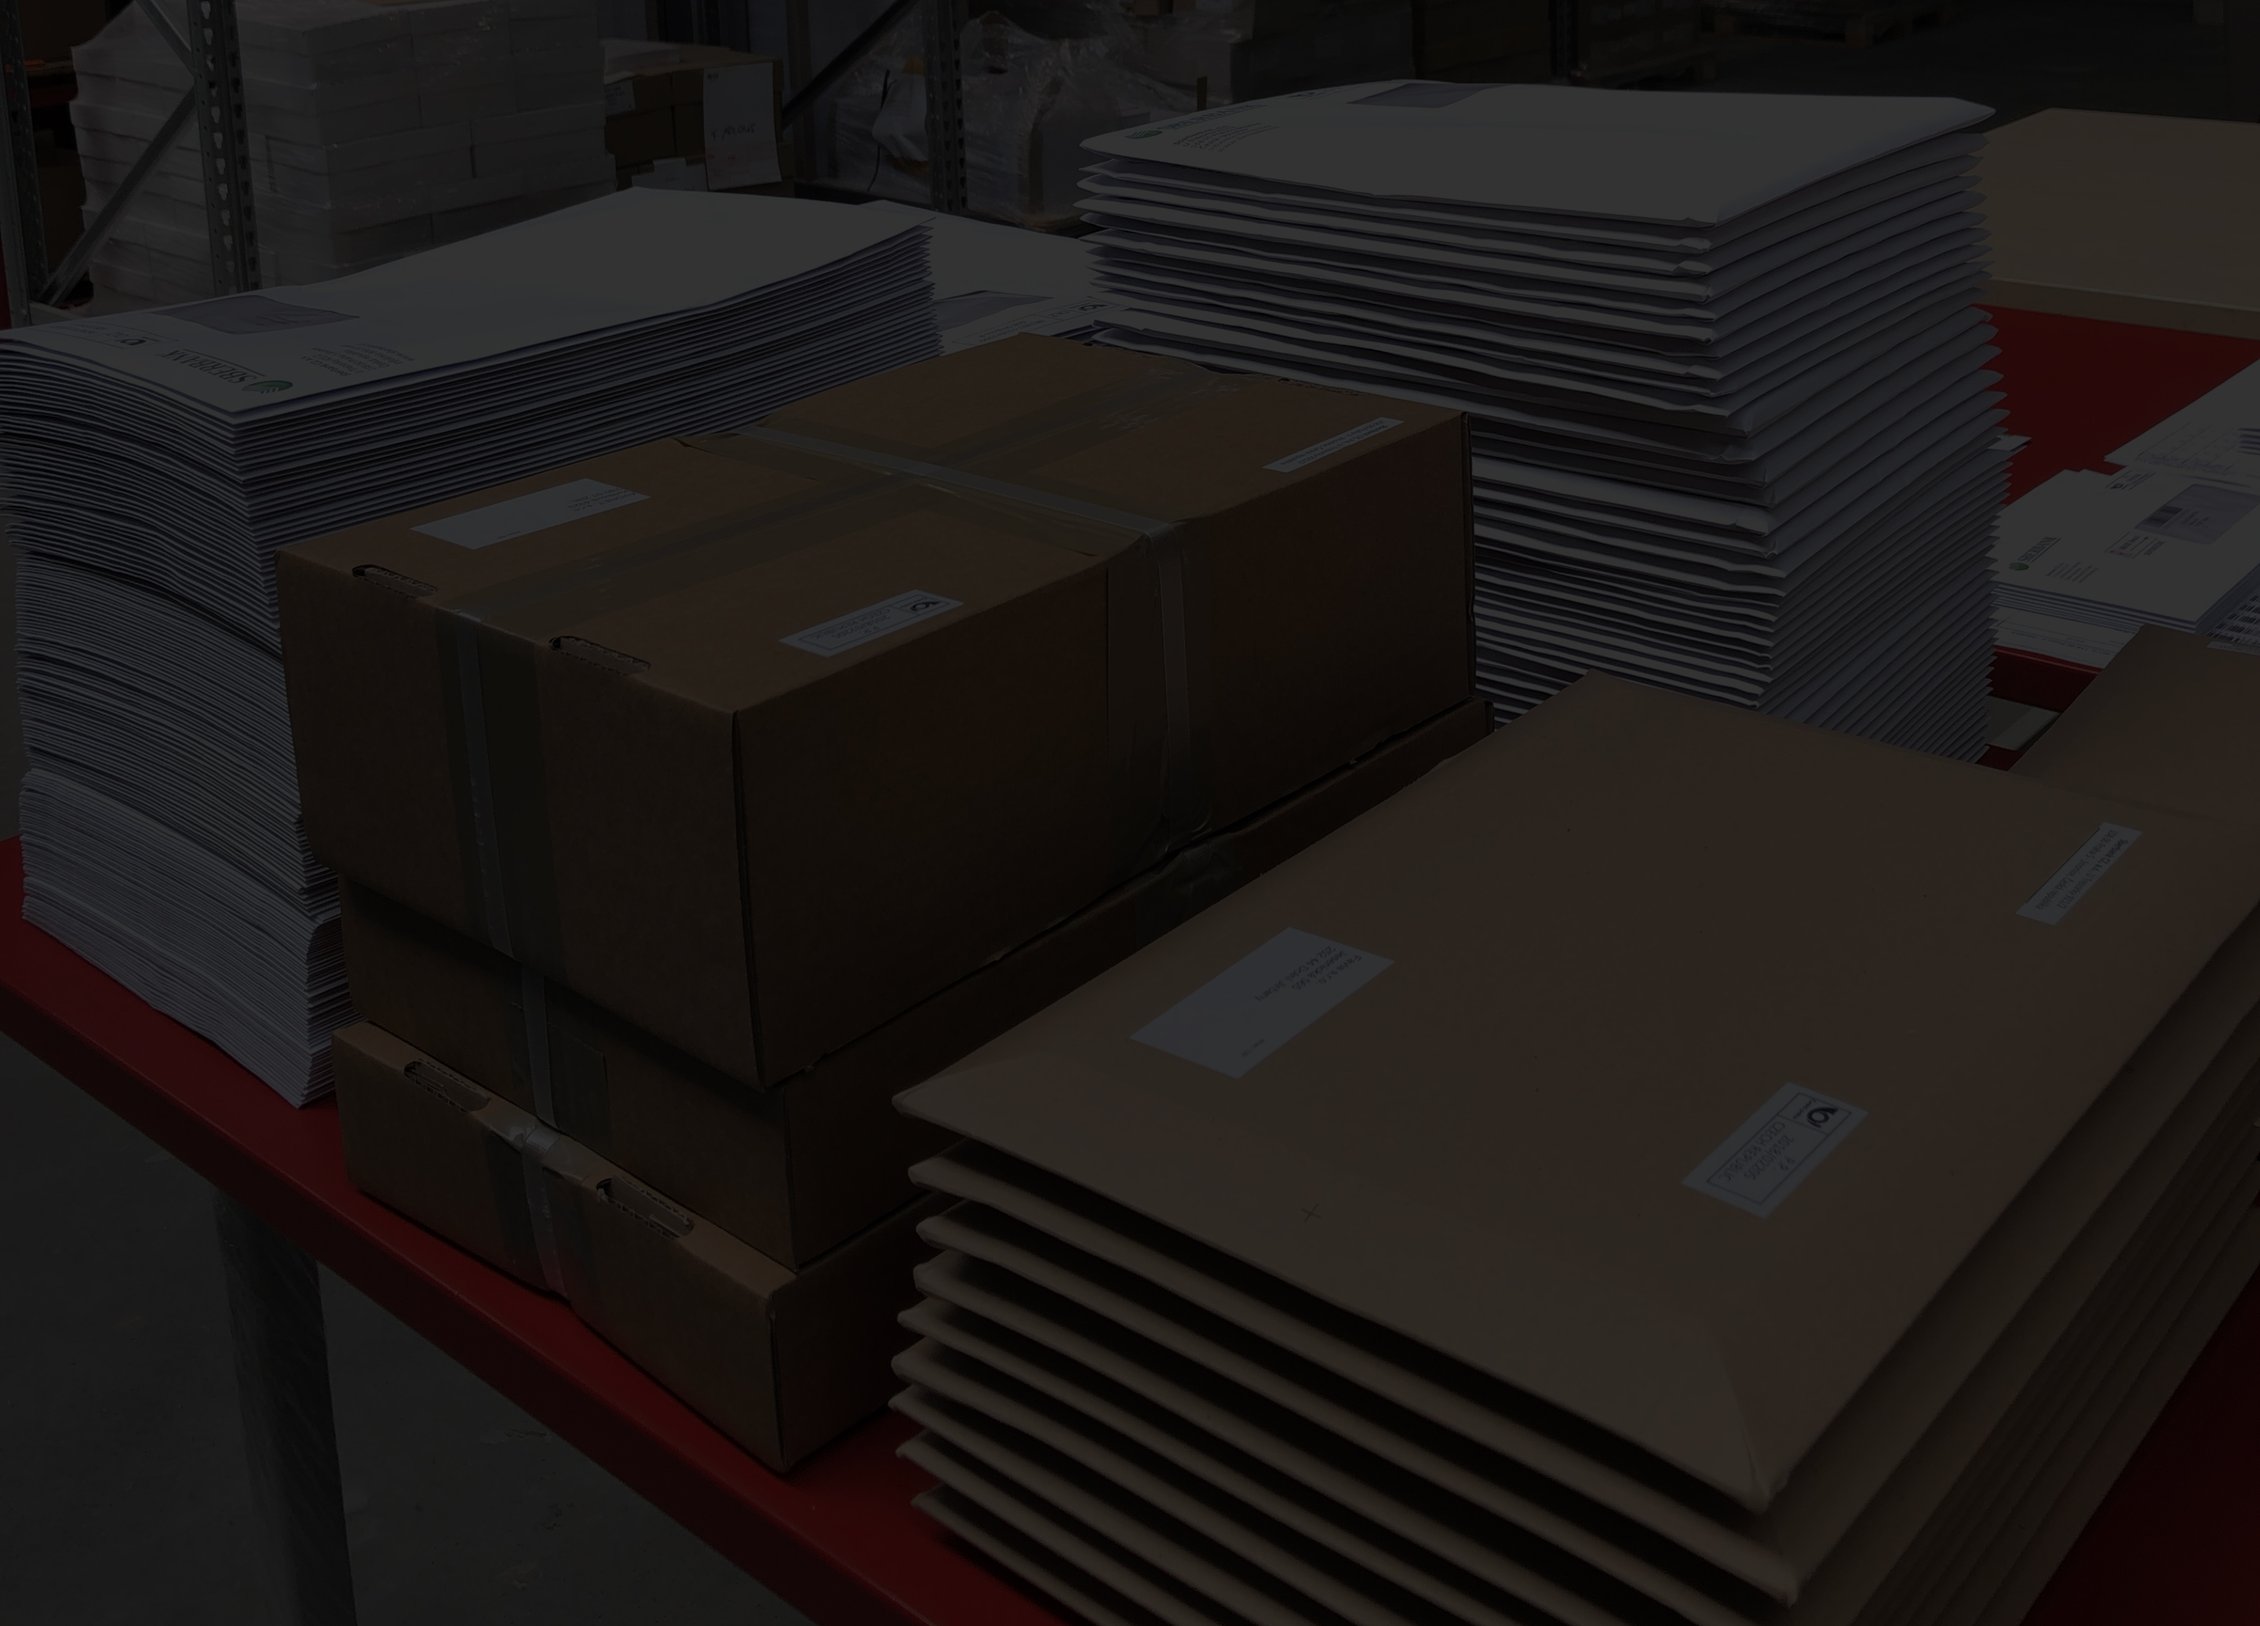
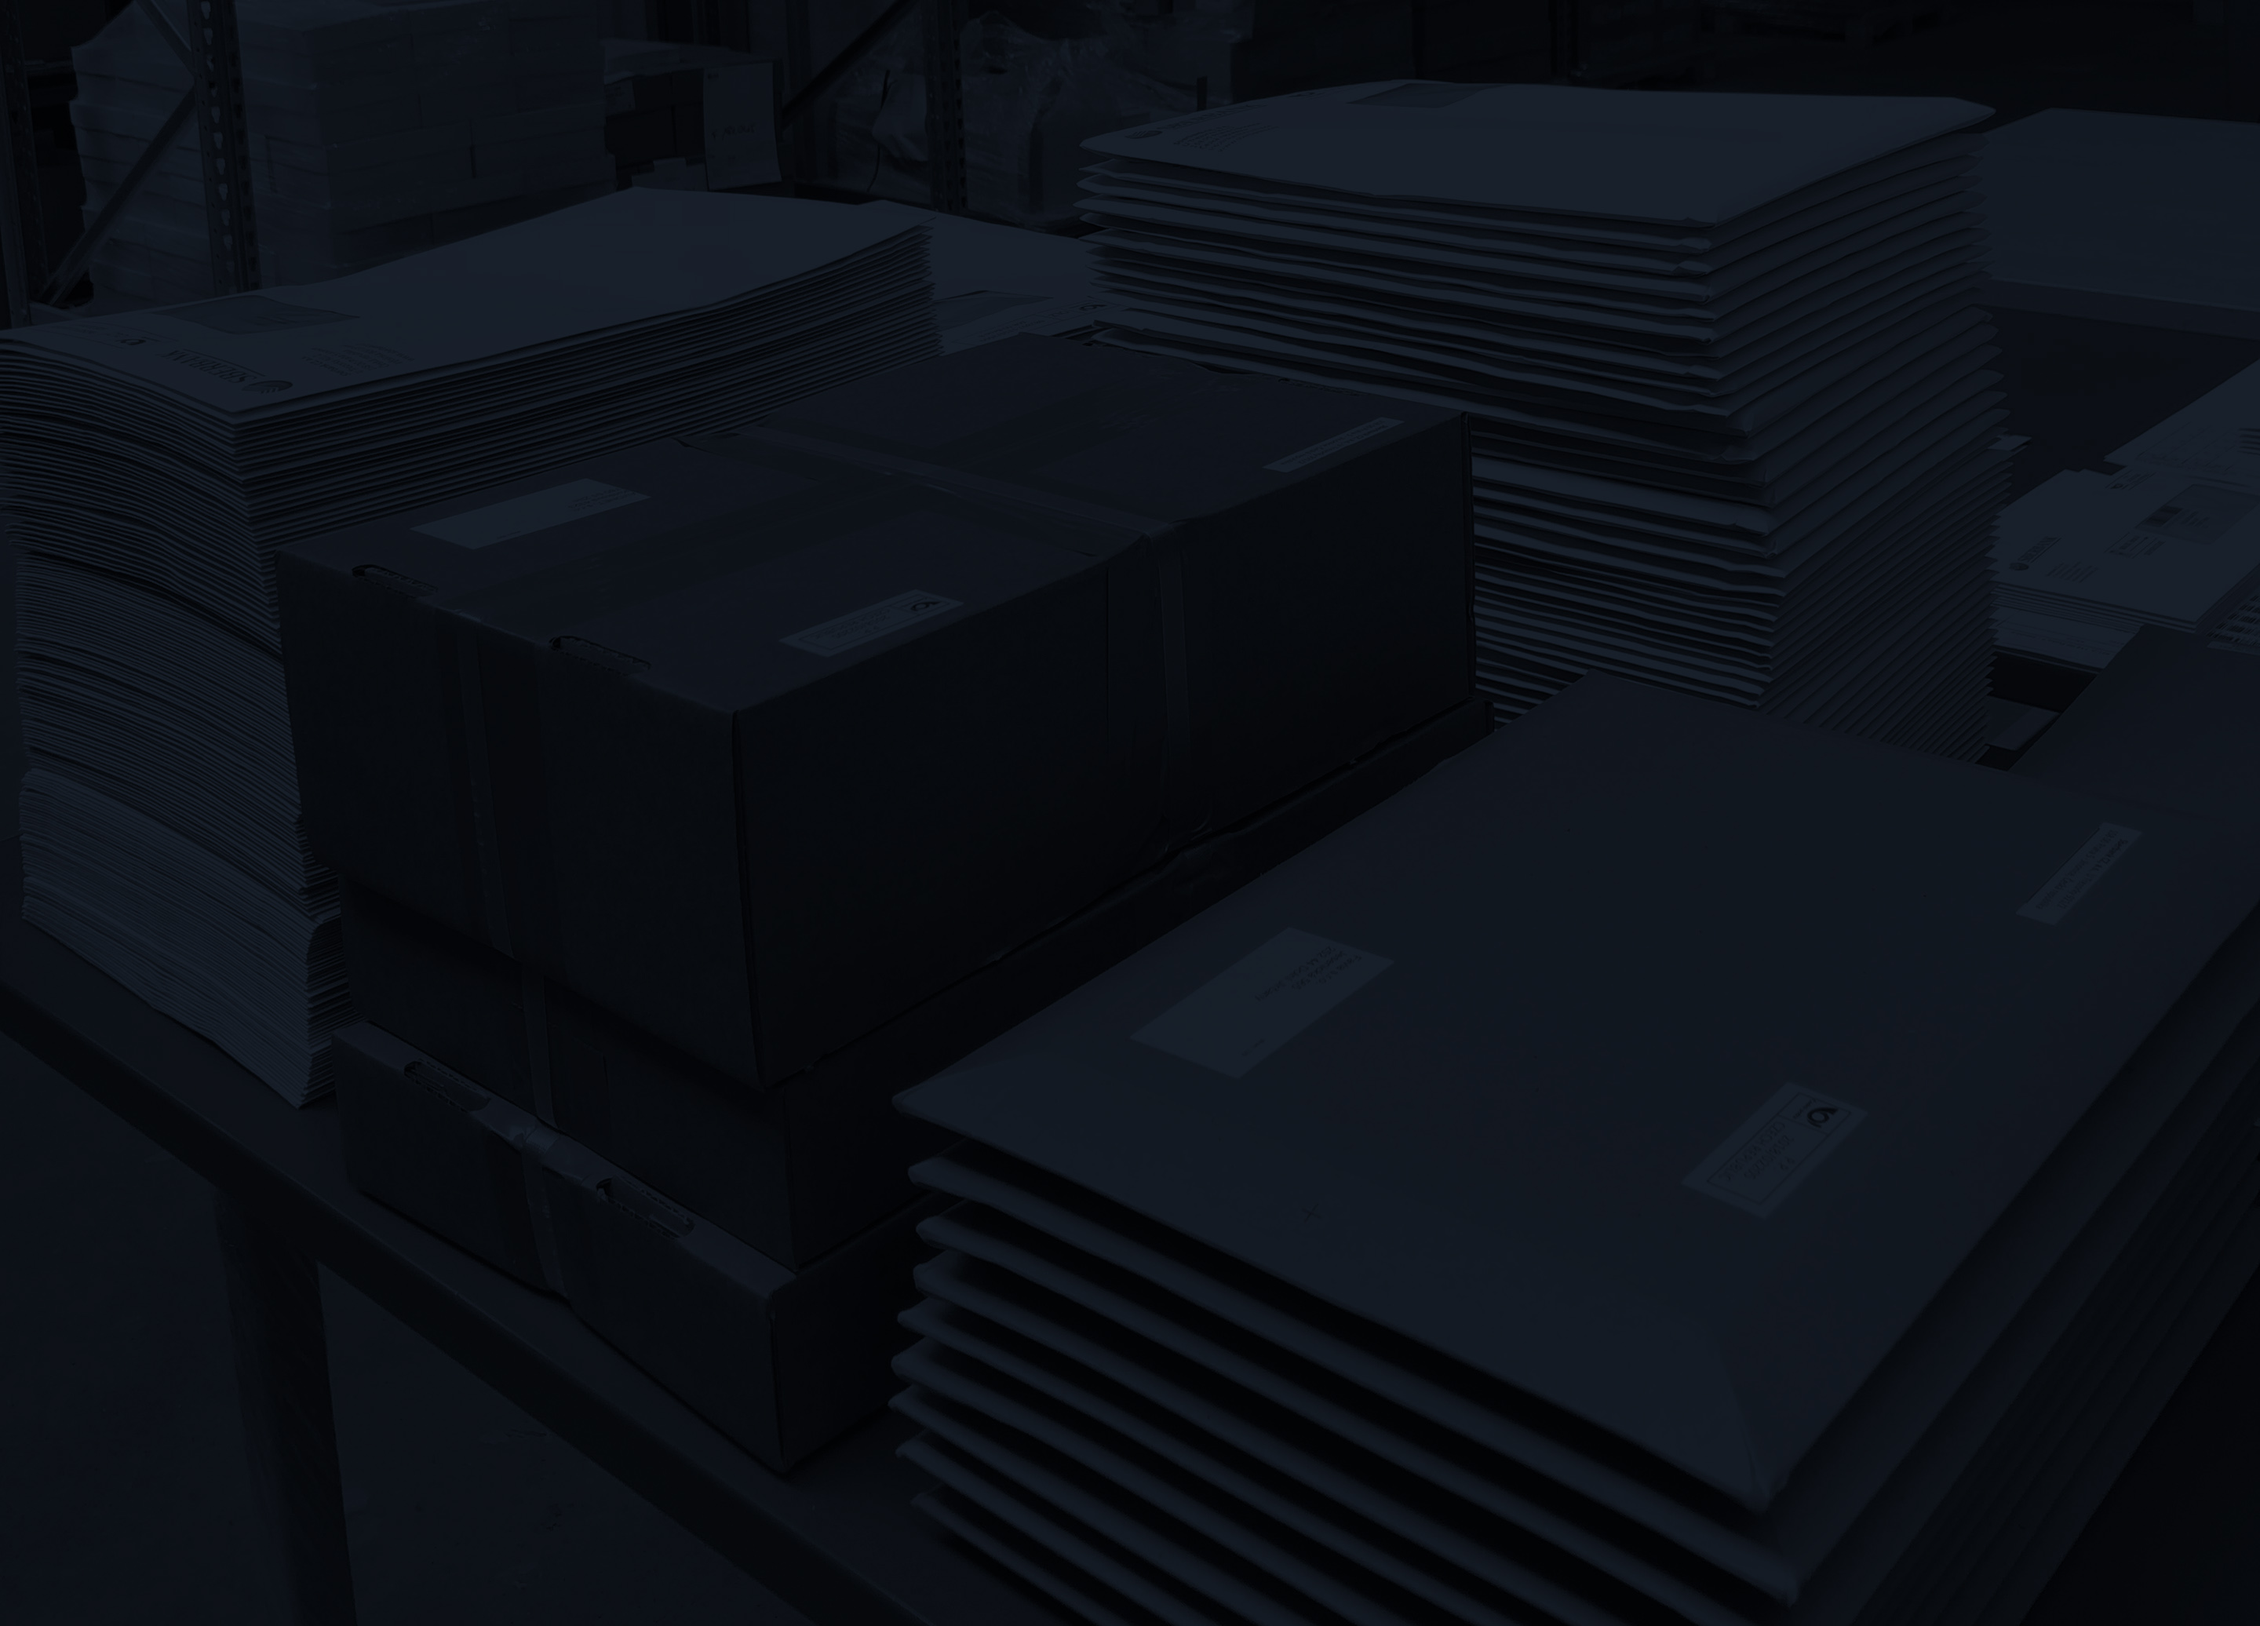
Background change image

diff --git a/public/scss/app/sections/main.scss b/public/scss/app/sections/main.scss
@@ -6,12 +6,6 @@
     width: 100%;
     @include linear-interpolation-chain(padding-top, $main-paddings-top);
 
-
-    &--overlay{
-        background-color: transparentize($color-primary,0.35);
-    }
-
-
     &--menu{
         @include linear-interpolation-chain(padding-top, $main-paddings-top-breakpoint-below);
         @include media($menu-item-breakpoint){

diff --git a/index.html b/index.html
@@ -35,7 +35,7 @@ and open the template in the editor.
                 naše služby
             </a>
         </header>
-        <main class="main main--overlay">
+        <main class="main">
             <video autoplay muted loop id="video-overlay">
                 <source src="public/video/background-video.mp4" type="video/mp4">
             </video>

diff --git a/public/css/main.css b/public/css/main.css
@@ -131,8 +131,6 @@ body {
   @media (min-width: 75em) {
     .main {
       padding-top: 6.42813rem; } }
-  .main--overlay {
-    background-color: rgba(0, 0, 0, 0.65); }
   .main--menu {
     padding-top: calc(25.89286vw - 2.20982rem);
     padding-bottom: calc(10.71429vw - 0.26786rem); }
